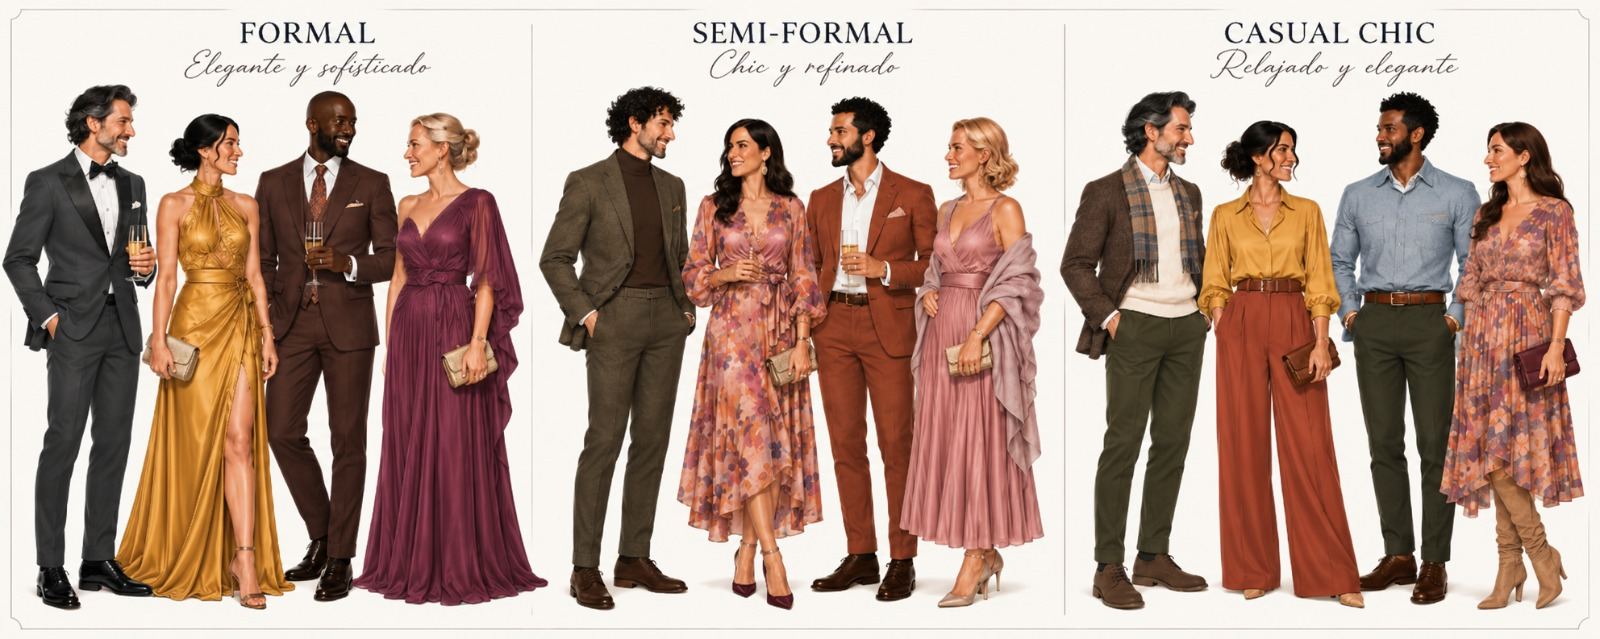
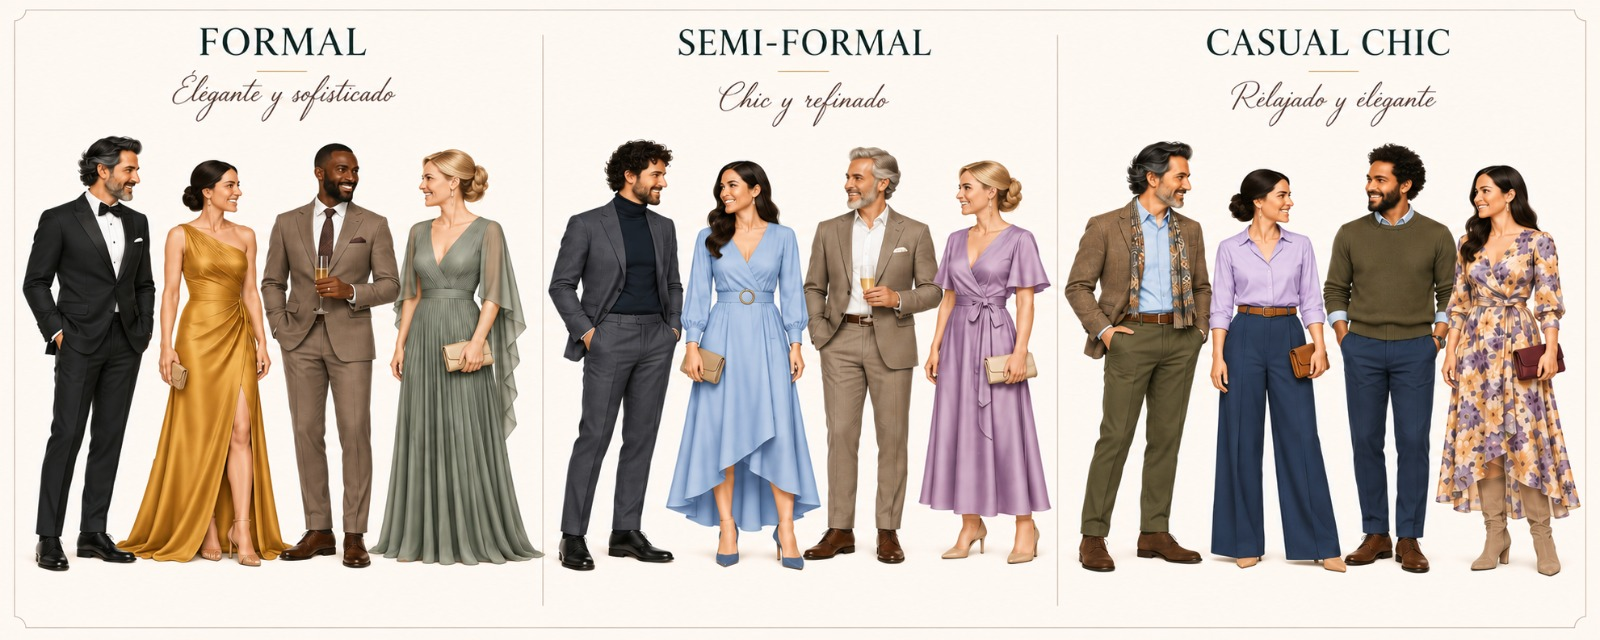
Remplace les visuels tenues et distingue les formats ordinateur et telephone
Les visuels tenues FR et ES passent aux nouvelles versions format long, et les
versions sur plusieurs lignes (palette et tenues, FR et ES) sont ajoutees pour
le telephone. La section code vestimentaire utilise une balise picture qui sert
le format long au dessus de 640 px, ce qui rend inutile l'ancien conteneur a
defilement horizontal.

Claude-Session: https://claude.ai/code/session_01UKATDgqUFqcxE8h6Z6XkBy

diff --git a/app/page.tsx b/app/page.tsx
@@ -214,18 +214,16 @@ export default function HomePage() {
           <p className="font-[family-name:var(--font-playfair)] text-[#8c7b72] italic text-xl leading-snug">
             {t("dresscode.color-palette")}
           </p>
-          {/* Image large : sur mobile on la laisse deborder dans un conteneur
-              defilant, sinon les codes hexa deviennent illisibles */}
-          <div className="mt-10 -mx-6 overflow-x-auto px-6 sm:mx-0 sm:px-0">
+          {/* Palette : format long sur ordinateur (>= 640px),
+              format sur plusieurs lignes sur telephone */}
+          <picture className="mt-10 block">
+            <source media="(min-width: 640px)" srcSet={`/color-${locale}.jpeg`} />
             <img
-              src={`/color-${locale}.jpeg`}
+              src={`/color-${locale}-mobile.jpeg`}
               alt={t("dresscode.colorTitle")}
-              className="w-[44rem] max-w-none rounded-sm border border-[#e8ddd8] shadow-sm sm:mx-auto sm:w-full sm:max-w-2xl"
+              className="mx-auto w-full max-w-md rounded-sm border border-[#e8ddd8] shadow-sm sm:max-w-2xl"
             />
-          </div>
-          <p className="font-[family-name:var(--font-playfair)] mt-2 text-sm italic text-[#b8a09a] sm:hidden">
-            Faites glisser · Deslice →
-          </p>
+          </picture>
 
           <h2 className="font-[family-name:var(--font-cormorant)] text-4xl font-light text-[#3a2e2e] tracking-wide mt-16 mb-4">
             {t("dresscode.title")}
@@ -233,16 +231,16 @@ export default function HomePage() {
           <p className="font-[family-name:var(--font-playfair)] text-[#8c7b72] italic text-xl leading-snug whitespace-pre-line">
             {t("dresscode.description")}
           </p>
-          <div className="mt-10 -mx-6 overflow-x-auto px-6 sm:mx-0 sm:px-0">
+          {/* Tenues : format long sur ordinateur (>= 640px),
+              format sur plusieurs lignes sur telephone */}
+          <picture className="mt-10 block">
+            <source media="(min-width: 640px)" srcSet={`/vetement-${locale}.jpeg`} />
             <img
-              src={`/vetement-${locale}.jpeg`}
+              src={`/vetement-${locale}-mobile.jpeg`}
               alt={t("dresscode.title")}
-              className="w-[52rem] max-w-none rounded-sm border border-[#e8ddd8] shadow-sm sm:mx-auto sm:w-full sm:max-w-2xl"
+              className="mx-auto w-full max-w-md rounded-sm border border-[#e8ddd8] shadow-sm sm:max-w-2xl"
             />
-          </div>
-          <p className="font-[family-name:var(--font-playfair)] mt-2 text-sm italic text-[#b8a09a] sm:hidden">
-            Faites glisser · Deslice →
-          </p>
+          </picture>
         </div>
       </section>
 
